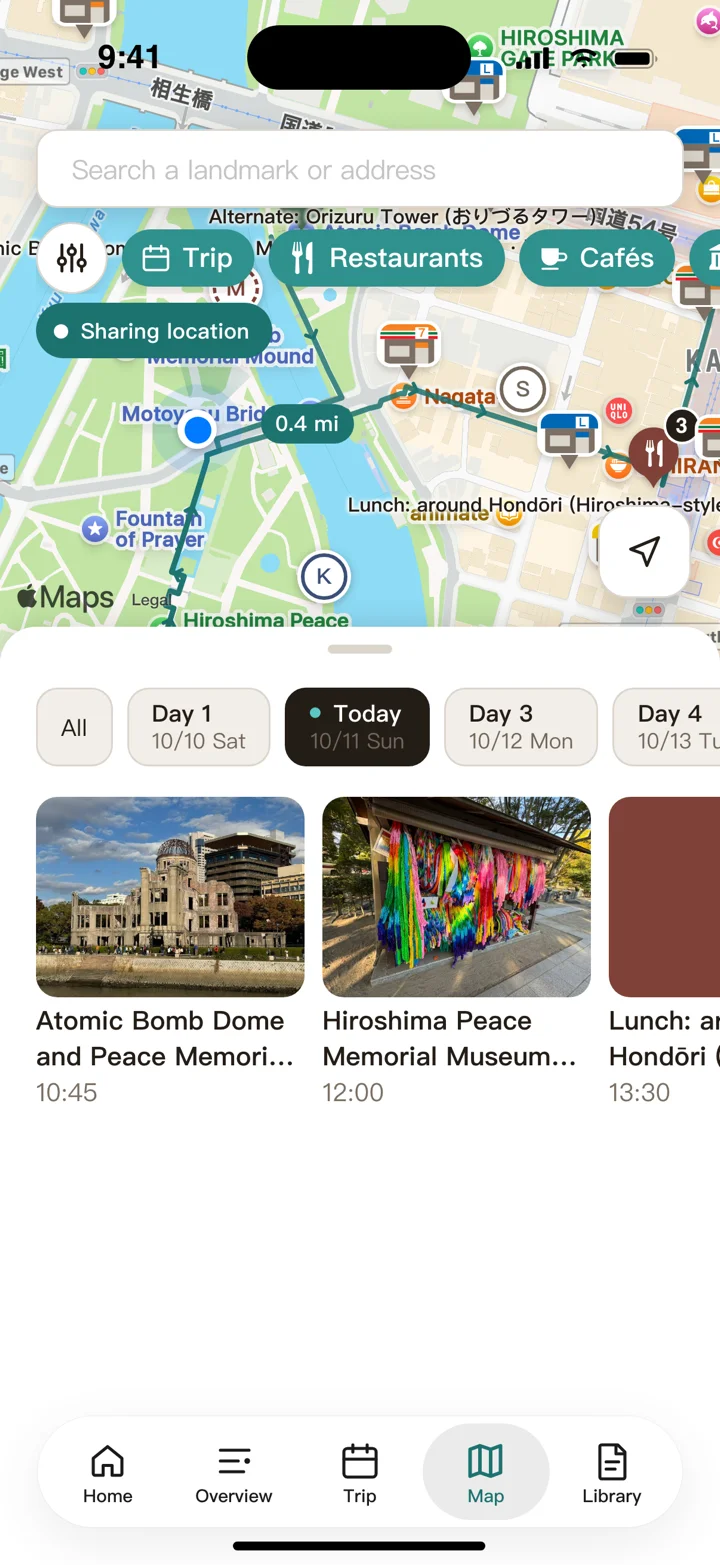
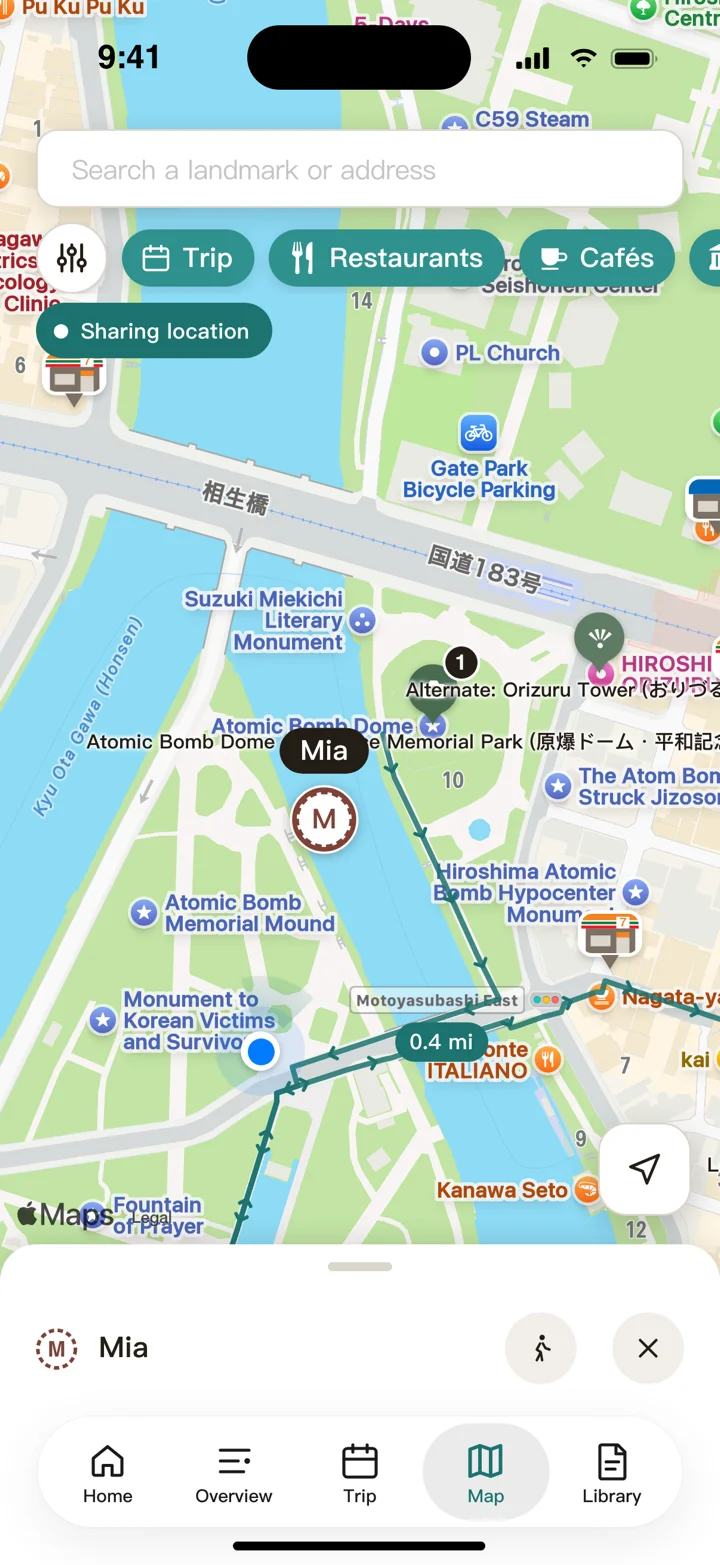
map screens: panel=small option (mate page on Small); store slot 9 and map-mates shots use it
Claude-Session: https://claude.ai/code/session_01Ujs89m9AHzz4CWeLweRoy6

diff --git a/screens/map-panel.js b/screens/map-panel.js
@@ -5,7 +5,7 @@
 // 待排行程 ui.map.carousel.unscheduled、還沒設地點 · N ui.map.placeless.row。
 // 版面數字量自實機截圖（agent-notes/map-bottom-panel/ticket-04，iPhone 17 Pro 402×874）：搜尋列 y 72–116、
 // 晶片列 y 124–164、分享藥丸 y 169–200、面板「中」＝容器 60%（容器寬大於高的畫面 45%，ADR-0091 §1）。
-import { DEV } from './chrome.js';
+import { DEV, params } from './chrome.js';
 
 const STR = {
   'zh-Hant-TW': { trips: '行程', restaurant: '餐廳', cafe: '咖啡', museum: '博物館', unscheduled: '待排行程', placeless: n => `還沒設地點 · ${n}` },
@@ -17,7 +17,9 @@ const STR = {
 // 幾何（座標都是畫面上的 pt）。iPad 同一塊全寬面板；Duo 橫放（寬大於高）面板 45%、右邊讓出垂直列
 export function geom() {
   const landscape = DEV.w > DEV.h;
-  const panelH = Math.round(DEV.h * (landscape ? 0.45 : 0.6) * 10) / 10;
+  // panel=small：「小」只露頁標題列（抓手＋頭像／名字＋步行＋✕），高度＝分頁列底下那一段＋標題列；其餘照「中」＝容器 60%（橫放 45%）
+  const small = params.get('panel') === 'small';
+  const panelH = small ? DEV.bottom + 96 : Math.round(DEV.h * (landscape ? 0.45 : 0.6) * 10) / 10;
   const top = DEV.h - panelH;
   const bar = DEV.bar || 0;
   const searchTop = 72 + DEV.top;
@@ -45,7 +47,7 @@ export function topHtml({ lang, searchText, liveText, liveOn, MAKI }) {
 // 面板外殼：grabber ＋ 內容（#pbody 由呼叫端換內容）
 export function shellHtml() {
   const g = geom();
-  return `<div class="panel" id="panel" style="top:${g.panelTop}px;height:${g.panelH + 40}px;right:${g.right}px"><div class="grab"></div><div class="pbody" id="pbody"></div></div>`;
+  return `<div class="panel${params.get('panel') === 'small' ? ' small' : ''}" id="panel" style="top:${g.panelTop}px;height:${g.panelH + 40}px;right:${g.right}px"><div class="grab"></div><div class="pbody" id="pbody"></div></div>`;
 }
 
 const glyphOf = (MAKI, MAKI_OF_TYPE, DEFAULT_ICON_ID, cat) => `<svg class="tg" viewBox="0 0 15 15" aria-hidden="true"><path fill="#fff" fill-rule="evenodd" d="${MAKI[MAKI_OF_TYPE[cat] || DEFAULT_ICON_ID] || MAKI.marker}"/></svg>`;

diff --git a/screens/map-panel.css b/screens/map-panel.css
@@ -68,3 +68,6 @@
 .dest-sec { margin: 14px 20px 0; padding-top: 14px; border-top: 1px solid var(--border-soft); }
 .dest-sec .c-tag { margin-top: 8px; display: inline-block; }
 .dest-sec .c-tag + .c-notes, .dest-sec .c-text + .c-notes { margin-top: 8px; }
+
+/* 「小」：只露頁標題列（頭像／名字＋步行＋✕），下面的內容不畫（分頁列是半透明的，不然會透出來） */
+.panel.small .pbody { bottom: auto; height: 46px; overflow: hidden; }
